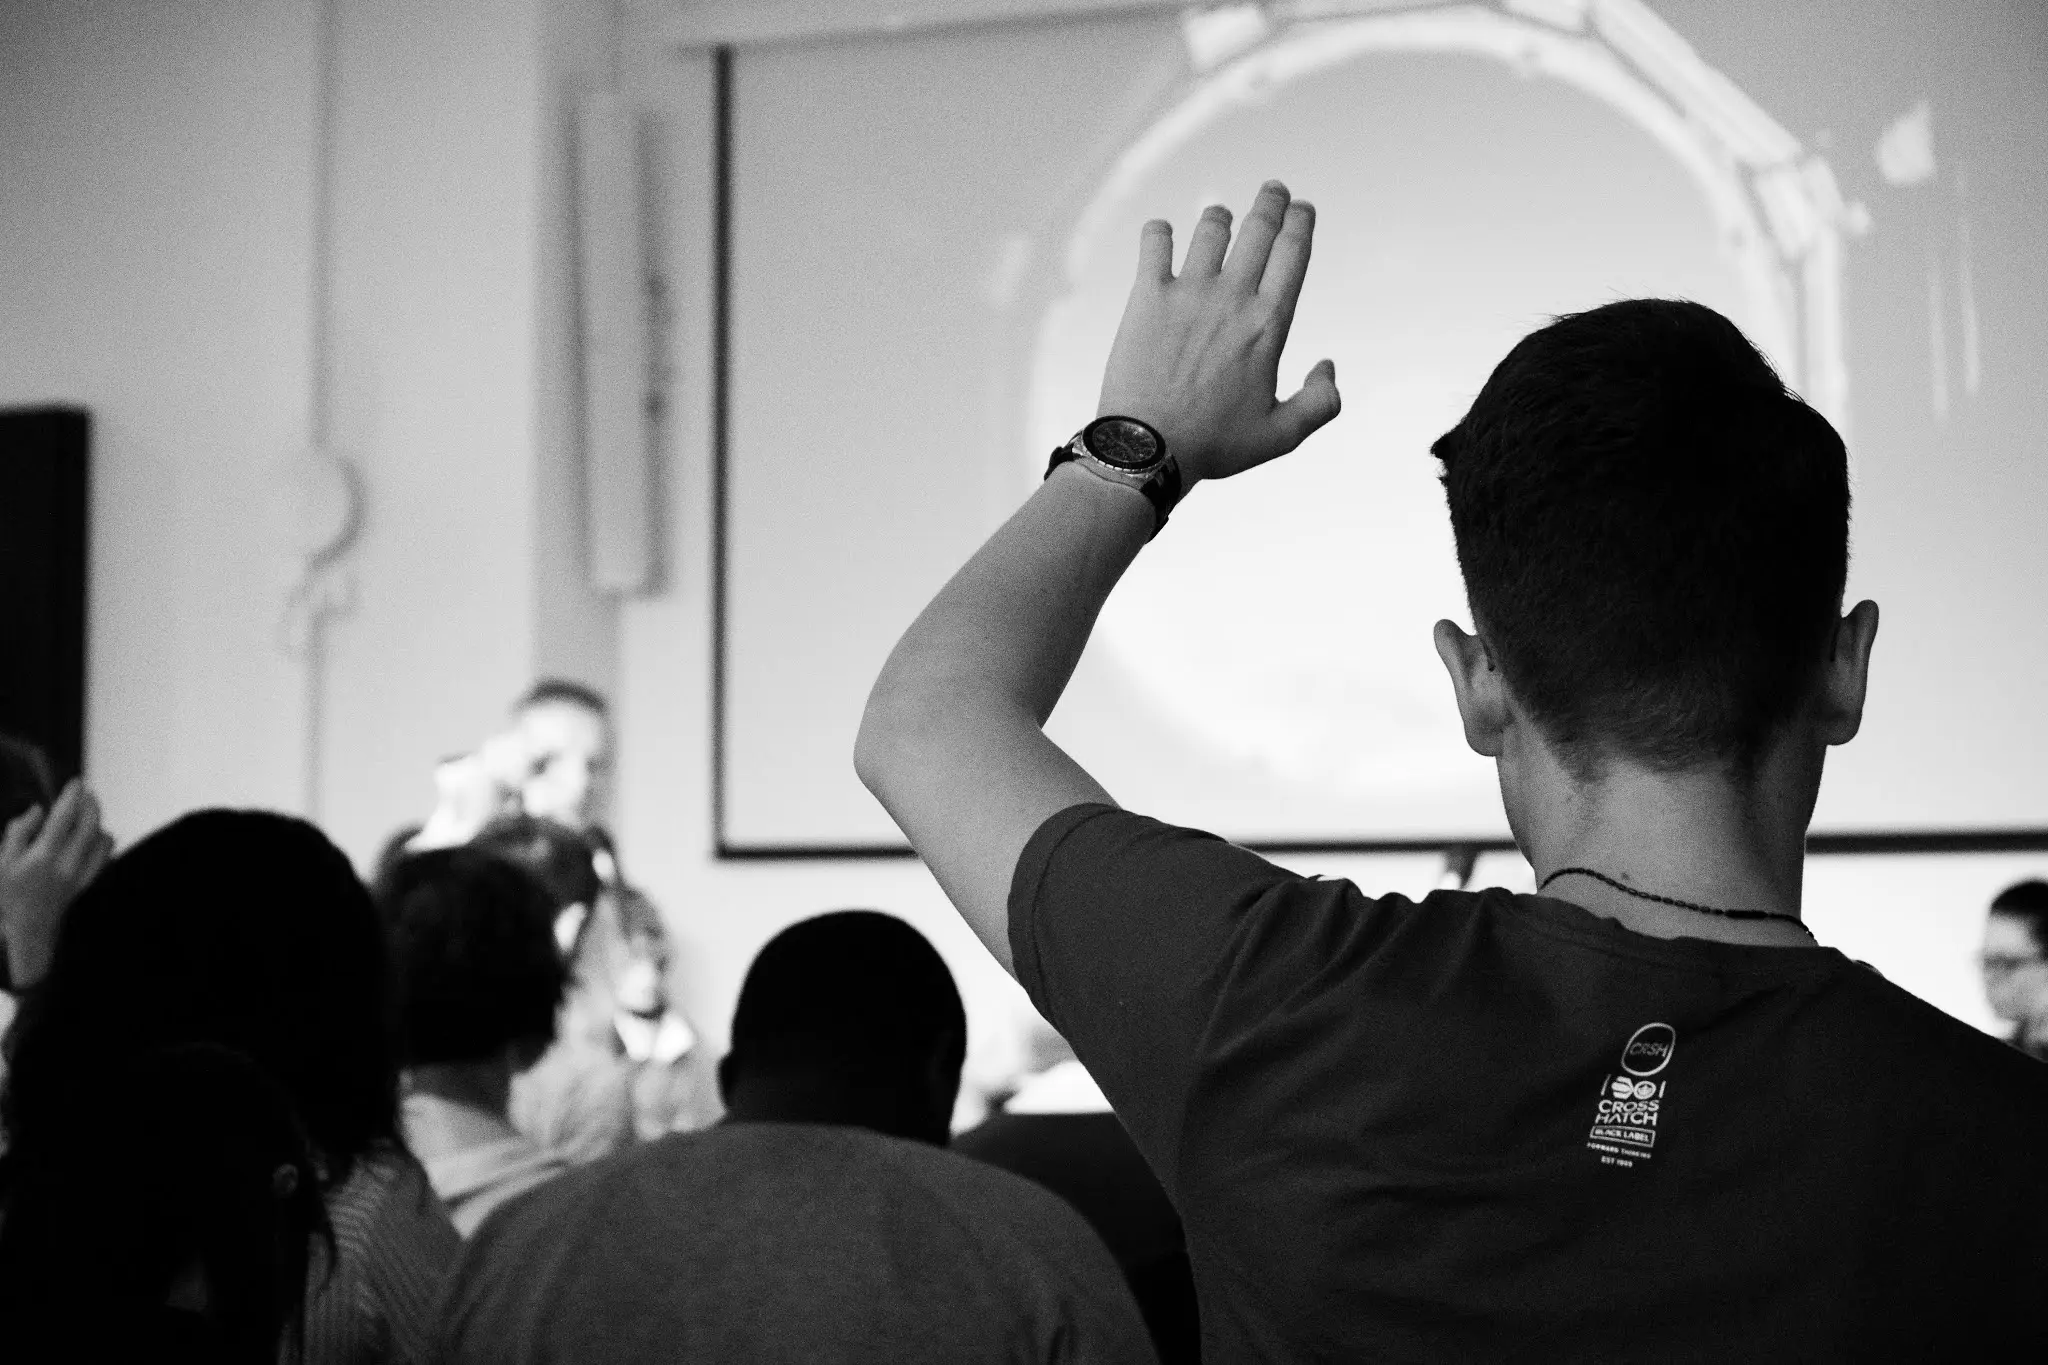
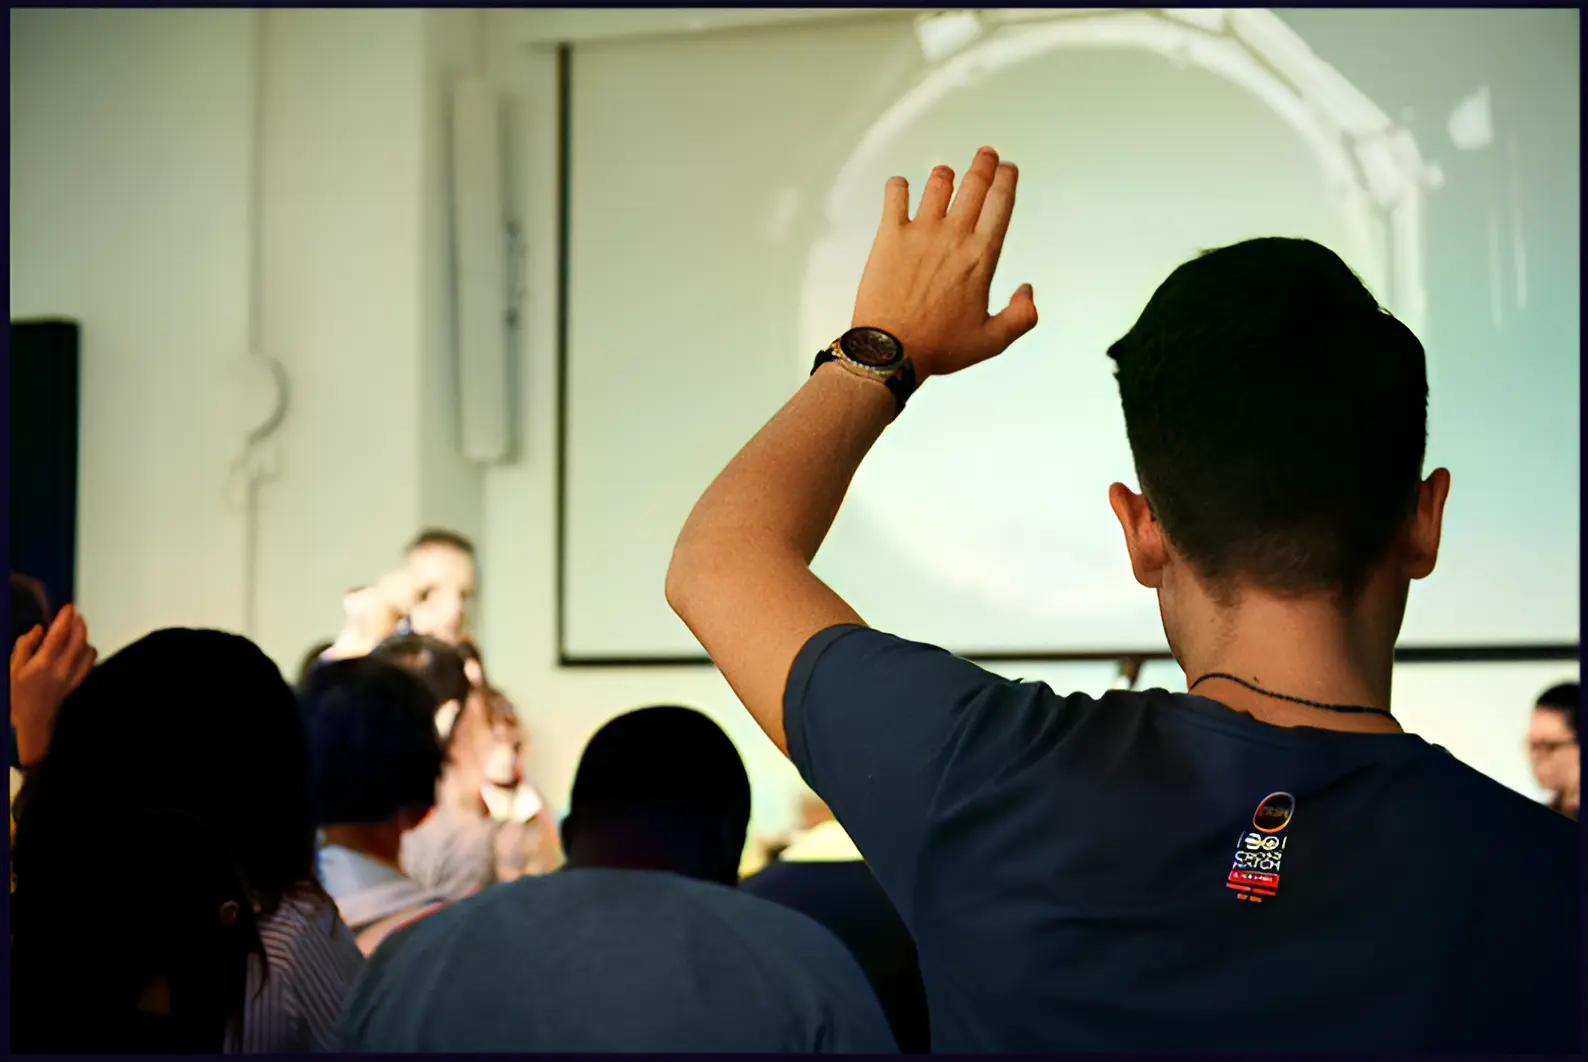
Bugs recursos

diff --git a/recursos/recursos.html b/recursos/recursos.html
@@ -123,124 +123,115 @@
                 </div>
             </div>
 
-            <div class="row row-cols-1 row-cols-lg-3">
-                <div id="Inicial" class="work d-flex align-items-stretch container animate__animated animate__fadeIn animate__delay-1s">
+            <!-- Membresías -->
 
-                    <div class="card-portfolio-one p-3 pb-0 pe-lg-0 pt-lg-4 align-items-center rounded-3">
-
-                        <div class="px-4 pb-sm-5 p-lg-5 pt-lg-3">
-
-                            <h2 class="text-dark">Inicial</h2>
-
-                            <h3><span class="chip-secondary badge rounded-pill mb-3">1€ / mes</span></h3>
-
-                            <ul class="list-group-flush list-no-indent">
-                                <li class=""><i class="bi bi-check-circle"></i> Desarrolla tu idea</li>
-                                <li class=""><i class="bi bi-check-circle"></i> Conéctate con talentos</li>
-                                <li class=""><i class="bi bi-check-circle"></i> Apoyo de la comunidad</li>
-                                <li class=""><i class="bi bi-check-circle"></i> Avanza en tu carrera</li>
-                                <li class=""><i class="bi bi-check-circle"></i> Realiza tus proyectos</li>
-                                <li class=""><i class="bi bi-check-circle"></i> Participa en discusiones</li>
-                                <li class=""><i class="bi bi-check-circle"></i> Nuevo modo de trabajar</li>
-                                <li class=""><i class="bi bi-check-circle"></i> Conectar talentos con proyectos</li>
-                            </ul>
-                            <p class="text-black-50"></p>
-                            <!-- Conéctate con talentos y proyectos. Desarrolla tu idea con el apoyo de la comunidad.
+            <div class="container">
+                <div class="row row-cols-1 row-cols-lg-3 g-4 d-flex align-items-stretch">
+                    <article id="Inicial" class="col mt-1 work d-flex align-items-stretch justify-content-center animate__animated animate__fadeIn animate__delay-1s">
+                        <!-- Conéctate con talentos y proyectos. Desarrolla tu idea con el apoyo de la comunidad.
                                 Creo en un nuevo modo de trabajar: conectar talentos con proyectos. Únete a nuestra
                                 comunidad por solo 1€/mes y accede a recursos exclusivos, participa en discusiones y
                                 mantente al día con los avances tecnológicos que están marcando la diferencia.
                                 ¿Listo para crecer tanto como profesional como persona?
                                 La comunidad que estamos creando te ayudará a realizar tus proyectos y avanzar en tu
                                 carrera. -->
-                            </p>
-                            <button
-                                class="button-tertiary btn py-3 px-4 mb-3 bg-primary-subtle d-inline-flex align-items-center"
-                                type="button" onclick="goToForm('Inicial')">Colaborar <i
-                                    class="bi bi-arrow-right ps-2"></i></button>
+                        <div
+                            class="work d-flex align-items-stretch animate__animated animate__fadeIn animate__delay-1s">
+                            <div class="card-portfolio-one p-3 pb-0 pe-lg-0 pt-lg-4 align-items-center rounded-3">
+                                <div class="px-4 pb-sm-5 p-lg-5 pt-lg-3">
+                                    <h2 class="text-dark">Inicial</h2>
+                                    <h3><span class="chip-secondary badge rounded-pill mb-3">1€ / mes</span></h3>
+                                    <ul class="list-group-flush list-no-indent">
+                                        <li><i class="bi bi-check-circle"></i> Desarrolla tu idea</li>
+                                        <li><i class="bi bi-check-circle"></i> Conéctate con talentos</li>
+                                        <li><i class="bi bi-check-circle"></i> Apoyo de la comunidad</li>
+                                        <li><i class="bi bi-check-circle"></i> Avanza en tu carrera</li>
+                                        <li><i class="bi bi-check-circle"></i> Realiza tus proyectos</li>
+                                        <li><i class="bi bi-check-circle"></i> Participa en discusiones</li>
+                                        <li><i class="bi bi-check-circle"></i> Nuevo modo de trabajar</li>
+                                        <li><i class="bi bi-check-circle"></i> Conectar talentos con proyectos</li>
+                                    </ul>
+                                    <button
+                                        class="button-tertiary btn py-3 px-4 mb-3 bg-primary-subtle d-inline-flex align-items-center"
+                                        type="button" onclick="goToForm('Inicial')">Colaborar <i
+                                            class="bi bi-arrow-right ps-2"></i></button>
+                                </div>
+                            </div>
                         </div>
-                    </div>
+                    </article>
 
-                </div>
-
-                <div id="Profesional" class="work d-flex align-items-stretch container col-8 animate__animated animate__fadeIn animate__delay-1s">
-
-                    <div class="card-portfolio-two p-3 pb-0 pe-lg-0 pt-lg-4 align-items-center rounded-3">
-
-                        <div class="px-4 pb-sm-5 p-lg-5 pt-lg-3">
-
-                            <h2 class="text-dark">Profesional</h2>
-
-                            <h3><span class="chip-secondary badge rounded-pill mb-3">5€ / mes</span></h3>
-
-                            <ul class="list-group-flush list-no-indent">
-                                <li class=""><i class="bi bi-check-circle"></i> Accede a la documentación completa</li>
-                                <li class=""><i class="bi bi-check-circle"></i> Desbloquea todo el contenido técnico
-                                </li>
-                                <li class=""><i class="bi bi-check-circle"></i> Guías paso a paso</li>
-                                <li class=""><i class="bi bi-check-circle"></i> Ejemplos prácticos</li>
-                                <li class=""><i class="bi bi-check-circle"></i> Soluciones que puedes implementar</li>
-                                <li class=""><i class="bi bi-check-circle"></i> Desarrolla tus productos con confianza
-                                </li>
-                                <li class=""><i class="bi bi-check-circle"></i> Aprende mientras avanzas en tu proyecto
-                                </li>
-                            </ul>
-                            <p class="text-black-50"></p>
-                            <!-- Accede a la documentación completa y lleva tus proyectos al siguiente nivel.
+                    <article id="Profesional" class="col mt-1 work d-flex align-items-stretch justify-content-center animate__animated animate__fadeIn animate__delay-1s">
+                        <!-- Accede a la documentación completa y lleva tus proyectos al siguiente nivel.
                                 Si estás listo para pasar de la idea a la ejecución, nuestra suscripción profesional te
                                 brinda acceso total a la documentación de proyectos tecnológicos detallados.
                                 Con guías paso a paso, ejemplos prácticos y soluciones que puedes implementar por ti
                                 mismo, este plan está diseñado para que puedas desarrollar tus propios productos con
                                 confianza.
                                 Desbloquea todo el contenido técnico y aprende mientras avanzas en tu proyecto.-->
-                            </p>
-                            <button
-                                class="button-tertiary btn py-3 px-4 mb-3 bg-primary-subtle d-inline-flex align-items-center"
-                                type="button" onclick="goToForm('Profesional')">Comenzar <i
-                                    class="bi bi-arrow-right ps-2"></i></button>
+                        <div
+                            class="work d-flex align-items-stretch animate__animated animate__fadeIn animate__delay-1s">
+                            <div class="card-portfolio-two p-3 pb-0 pe-lg-0 pt-lg-4 align-items-center rounded-3">
+                                <div class="px-4 pb-sm-5 p-lg-5 pt-lg-3">
+                                    <h2 class="text-dark">Profesional</h2>
+                                    <h3><span class="chip-secondary badge rounded-pill mb-3">5€ / mes</span></h3>
+                                    <ul class="list-group-flush list-no-indent">
+                                        <li><i class="bi bi-check-circle"></i> Accede a la documentación completa</li>
+                                        <li><i class="bi bi-check-circle"></i> Desbloquea todo el contenido técnico</li>
+                                        <li><i class="bi bi-check-circle"></i> Guías paso a paso</li>
+                                        <li><i class="bi bi-check-circle"></i> Ejemplos prácticos</li>
+                                        <li><i class="bi bi-check-circle"></i> Soluciones que puedes implementar</li>
+                                        <li><i class="bi bi-check-circle"></i> Desarrolla tus productos con confianza
+                                        </li>
+                                        <li><i class="bi bi-check-circle"></i> Aprende mientras avanzas en tu proyecto
+                                        </li>
+                                    </ul>
+                                    <button
+                                        class="button-tertiary btn py-3 px-4 mb-3 bg-primary-subtle d-inline-flex align-items-center"
+                                        type="button" onclick="goToForm('Profesional')">Comenzar <i
+                                            class="bi bi-arrow-right ps-2"></i></button>
+                                </div>
+                            </div>
                         </div>
-                    </div>
+                    </article>
 
-                </div>
-
-                <div id="Mentor" class="work d-flex align-items-stretch container col-8 animate__animated animate__fadeIn animate__delay-1s">
-
-                    <div class="card-portfolio-three p-3 pb-0 pe-lg-0 pt-lg-4 align-items-center rounded-3">
-                        <div class="px-4 pb-sm-5 p-lg-5 pt-lg-3">
-
-                            <h2 class="text-dark">Mentor</h2>
-
-                            <h3><span class="chip-secondary badge rounded-pill mb-3">Personalizado</span></h3>
-
-                            <ul class="list-group-flush list-no-indent">
-                                <li class=""><i class="bi bi-check-circle"></i> Asistencia personalizada</li>
-                                <li class=""><i class="bi bi-check-circle"></i> Desarrolla tu proyecto con mi mentoría
-                                </li>
-                                <li class=""><i class="bi bi-check-circle"></i> Supera desafíos técnicos</li>
-                                <li class=""><i class="bi bi-check-circle"></i> Guía en el desarrollo de tu proyecto
-                                </li>
-                                <li class=""><i class="bi bi-check-circle"></i> Apoyo técnico para avanzar</li>
-                                <li class=""><i class="bi bi-check-circle"></i> Resuelve problemas</li>
-                                <li class=""><i class="bi bi-check-circle"></i> Haz realidad tu idea</li>
-                                <li class=""><i class="bi bi-check-circle"></i> Lleva tu proyecto al siguiente nivel
-                                </li>
-                            </ul>
-                            <p class="text-black-50">
-                                <!--¿Necesitas asistencia personalizada? Desarrolla tu proyecto con mi mentoría.
+                    <article id="Mentor" class="col mt-1 work d-flex align-items-stretch justify-content-center animate__animated animate__fadeIn animate__delay-1s">
+                        <!--¿Necesitas asistencia personalizada? Desarrolla tu proyecto con mi mentoría.
                                 Si te enfrentas a un desafío técnico o necesitas guía en el desarrollo de tu proyecto,
                                 estoy aquí para ayudarte a lograrlo.
                                 Como ingeniero de productos tecnológicos, te brindaré el seguimiento y el apoyo técnico
                                 que necesitas para avanzar, resolver problemas y hacer realidad tu idea.
                                 No permitas que la tecnología te detenga. Obtén la asistencia personalizada que
                                 necesitas para llevar tu proyecto al siguiente nivel.-->
-                            </p>
-                            <button
-                                class="button-tertiary btn py-3 px-4 mb-3 bg-primary-subtle d-inline-flex align-items-center"
-                                type="button" onclick="goToForm('Mentor')">Contactar <i
-                                    class="bi bi-arrow-right ps-2"></i></button>
+                        <div
+                            class="work d-flex align-items-stretch animate__animated animate__fadeIn animate__delay-1s">
+                            <div class="card-portfolio-three p-3 pb-0 pe-lg-0 pt-lg-4 align-items-center rounded-3">
+                                <div class="px-4 pb-sm-5 p-lg-5 pt-lg-3">
+                                    <h2 class="text-dark">Mentor</h2>
+                                    <h3><span class="chip-secondary badge rounded-pill mb-3">Personalizado</span></h3>
+                                    <ul class="list-group-flush list-no-indent">
+                                        <li><i class="bi bi-check-circle"></i> Asistencia personalizada</li>
+                                        <li><i class="bi bi-check-circle"></i> Desarrolla tu proyecto con mi mentoría
+                                        </li>
+                                        <li><i class="bi bi-check-circle"></i> Supera desafíos técnicos</li>
+                                        <li><i class="bi bi-check-circle"></i> Guía en el desarrollo de tu proyecto</li>
+                                        <li><i class="bi bi-check-circle"></i> Apoyo técnico para avanzar</li>
+                                        <li><i class="bi bi-check-circle"></i> Resuelve problemas</li>
+                                        <li><i class="bi bi-check-circle"></i> Haz realidad tu idea</li>
+                                        <li><i class="bi bi-check-circle"></i> Lleva tu proyecto al siguiente nivel</li>
+                                    </ul>
+                                    <button
+                                        class="button-tertiary btn py-3 px-4 mb-3 bg-primary-subtle d-inline-flex align-items-center"
+                                        type="button" onclick="goToForm('Mentor')">Contactar <i
+                                            class="bi bi-arrow-right ps-2"></i></button>
+                                </div>
+                            </div>
                         </div>
-                    </div>
+                    </article>
                 </div>
             </div>
+
+            <!-- Fin Membresías -->
+
             <div class="row justify-content-center pt-5">
                 <div class="col-10 col-md-10 text-dark">
                     <p>&nbsp; &nbsp;Creo en un nuevo modo de trabajar, conectar talentos con proyectos, facilitar y
@@ -281,6 +272,7 @@
                         proyectos<i class="bi bi-plus-circle ms-2"></i></a>
                 </div>
             </div>
+
         </section>
 
     </section>

diff --git a/proyectos/proyectos.html b/proyectos/proyectos.html
@@ -100,7 +100,7 @@
 
                         <p class="animate__animated animate__fadeIn animate__slow"><a href="https://github.com/lcismondi/desktop-gadget"
                                 class="text-white"><i class="bi bi-arrow-up-right-circle-fill me-1"></i>Digit</a>
-                                <span class="text-white-50"> — Un asistencia IA de escritorio</span>
+                                <span class="text-white-50"> — Un asistente IA de escritorio</span>
                         </p>
 
                     </div>
@@ -234,6 +234,17 @@
                         <img class="card-img-top" src="/estudios/img/bolayviga.webp">
                         <div class="card-body">
                             <p class="card-text text-light">Bola y viga<small class="text-white-50"> | Enero 2016</small>
+                            </p>
+                        </div>
+                    </a>
+                </div>
+            </div>
+            <div class="grid-item col-sm-6 col-lg-4 mb-4 animate__animated animate__fadeIn animate__slower">
+                <div class="card bg-black border-dark work">
+                    <a href="/estudios/datalogger.html" class="text-white">
+                        <img class="card-img-top" src="/estudios/img/datalogger.webp">
+                        <div class="card-body">
+                            <p class="card-text text-light">Dronlogger<small class="text-white-50"> | Enero 2016</small>
                             </p>
                         </div>
                     </a>

diff --git a/README.md b/README.md
@@ -34,7 +34,8 @@ Para sincronizar el repositorio remoto:
 ```
 git init
 git status
-git rm --cached archivo.html       //Dejar de rastrear archivo
+git rm --cached ruta/archivo.html           //Dejar de rastrear archivo
+git add ruta/archivo.html                   //Volver a rastreas el arvhivo 
 git add .      //Agrega los archivos nuevos y modificados al área de "preparación" (staged)
 git config --global user.email "you@example.com"
 git config --global user.name "Your Name"
